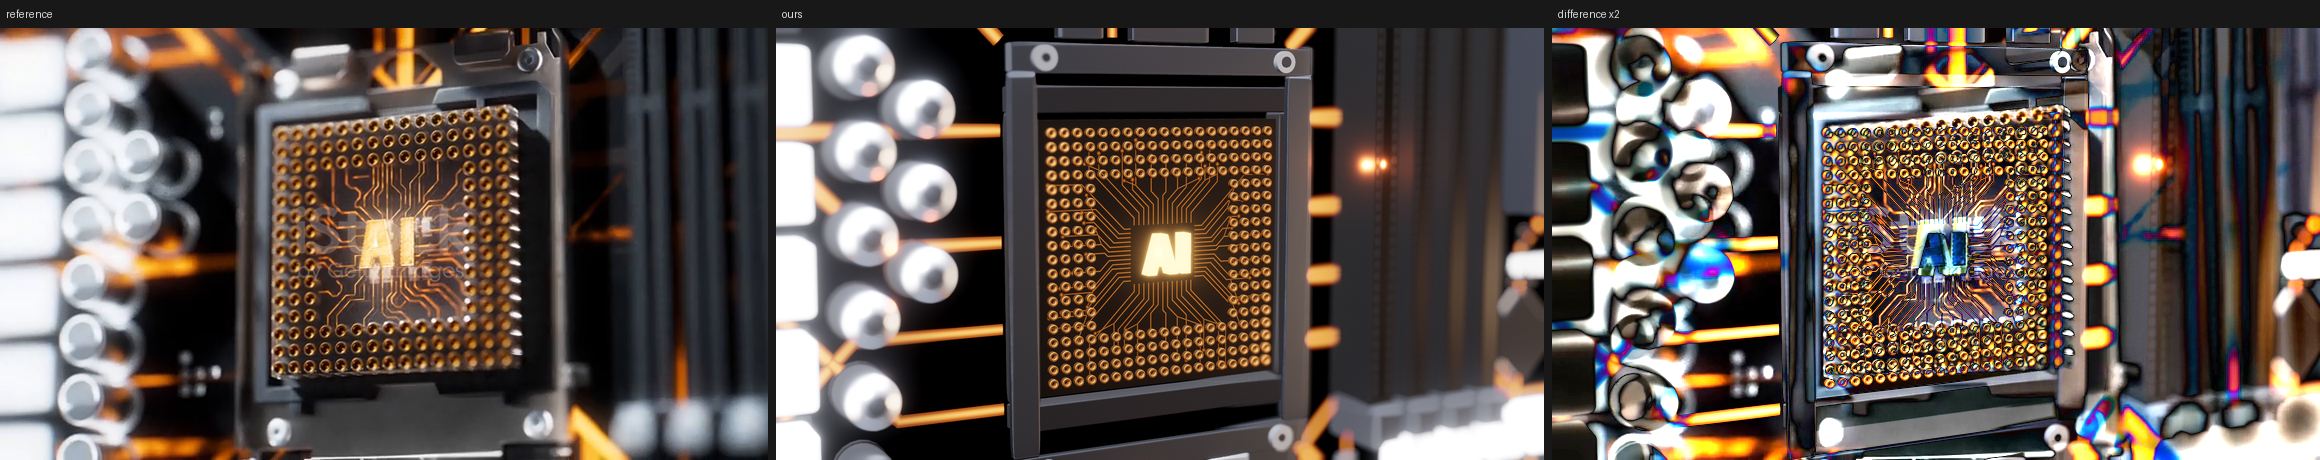
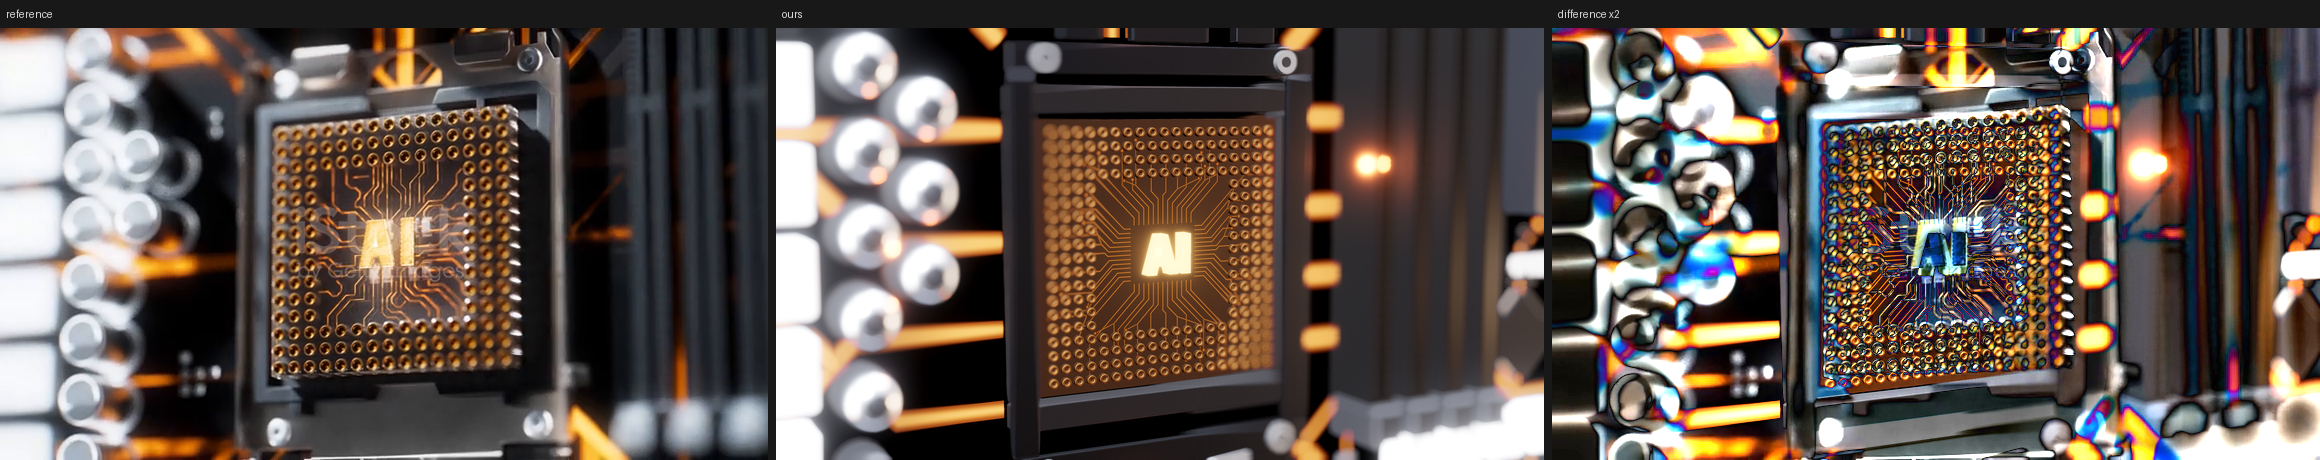
ai-chip-reveal: chip face colour in the palette; V2 pins match V1 brightness
Claude-Session: https://claude.ai/code/session_016jjL2AH2HD4rFCQ3eAYRxu

diff --git a/ai-chip-reveal/src/scene/world.ts b/ai-chip-reveal/src/scene/world.ts
@@ -222,7 +222,7 @@ export const createWorld = (gl: THREE.WebGLRenderer, palette: Palette): World =>
     grey: std({ color: "#46474d", roughness: 0.55, metalness: 0.3, envMapIntensity: 0.5 }),
     white: std({ color: "#c9ccd2", roughness: 0.5, metalness: 0, emissive: "#f2f5ff", emissiveIntensity: ML.whiteEmissive }),
     gold: std({ color: palette.pin, roughness: 0.28, metalness: 1, envMapIntensity: 0.3 }),
-    substrate: std({ color: "#3a2412", roughness: 0.5, metalness: 0.3, envMapIntensity: 0.4 }),
+    substrate: std({ color: palette.chipFace, roughness: 0.5, metalness: 0.3, envMapIntensity: 0.4 }),
     capTop: std({ color: "#5c5f66", roughness: 0.3, metalness: 1, envMapIntensity: 1.0 }),
     smd: std({ color: "#ffffff", roughness: 0.5, metalness: 0.35, envMapIntensity: 0.5 }),
     bar: std({ color: "#0b0b0d", roughness: 0.55, metalness: 0.0, envMapIntensity: 0.1 }),

diff --git a/ai-chip-reveal/src/config.ts b/ai-chip-reveal/src/config.ts
@@ -25,6 +25,8 @@ export interface Palette {
   chipTrace: string;
   /** plated pins of the chip */
   pin: string;
+  /** face of the chip under the pins */
+  chipFace: string;
   /** small coloured lights that spill glow colour onto nearby parts */
   spill: string;
   /** tint of the warm fill light */
@@ -38,6 +40,7 @@ export const PALETTE_V1: Palette = {
   letters: "#ffc060",
   chipTrace: "#e8842a",
   pin: "#80582a",
+  chipFace: "#3a2412",
   spill: "#ff7a18",
   fill: "#ffd2a8",
 };
@@ -48,7 +51,8 @@ export const PALETTE_V2: Palette = {
   traceHot: "#58d8ff",
   letters: "#8fe6ff",
   chipTrace: "#2ebeff",
-  pin: "#aebfd0",
+  pin: "#2f6f96",
+  chipFace: "#10283a",
   spill: "#1e9cff",
   fill: "#a8d4ff",
 };

diff --git a/qc/report-parts/5-subagents.md b/qc/report-parts/5-subagents.md
@@ -43,5 +43,5 @@ Every review was done by a fresh sub-agent that saw only the image pairs or fram
 
 | Video | Is the change clearly visible? | Everything else the same concept and quality? | Notes |
 |---|---|---|---|
-| 02-V2-ai-chip-reveal (palette) | __A2_VISIBLE__ | __A2_SAME__ | __A2_NOTES__ |
+| 02-V2-ai-chip-reveal (palette) | **Yes** - "orange/gold accents are unmistakably replaced by cyan/blue with white highlights in all three frames" | **Yes** - "staging, framing, timing and background match closely" | The reviewer noted two things specific to Version 2: the pin field blown out to white, and a leftover brown chip face. Both were fixed afterwards (the chip face is now part of the palette and the cyan pin colour was darkened to the same brightness as the copper one: mean frame brightness 69.5 against 69.7 in Version 1) and Version 2 was rendered again. Its other notes (trace distribution, materials, sharpness) apply equally to Version 1 and are listed there |
 | 04-V2-chip-ignite (camera movement) | __B2_VISIBLE__ | __B2_SAME__ | __B2_NOTES__ |
